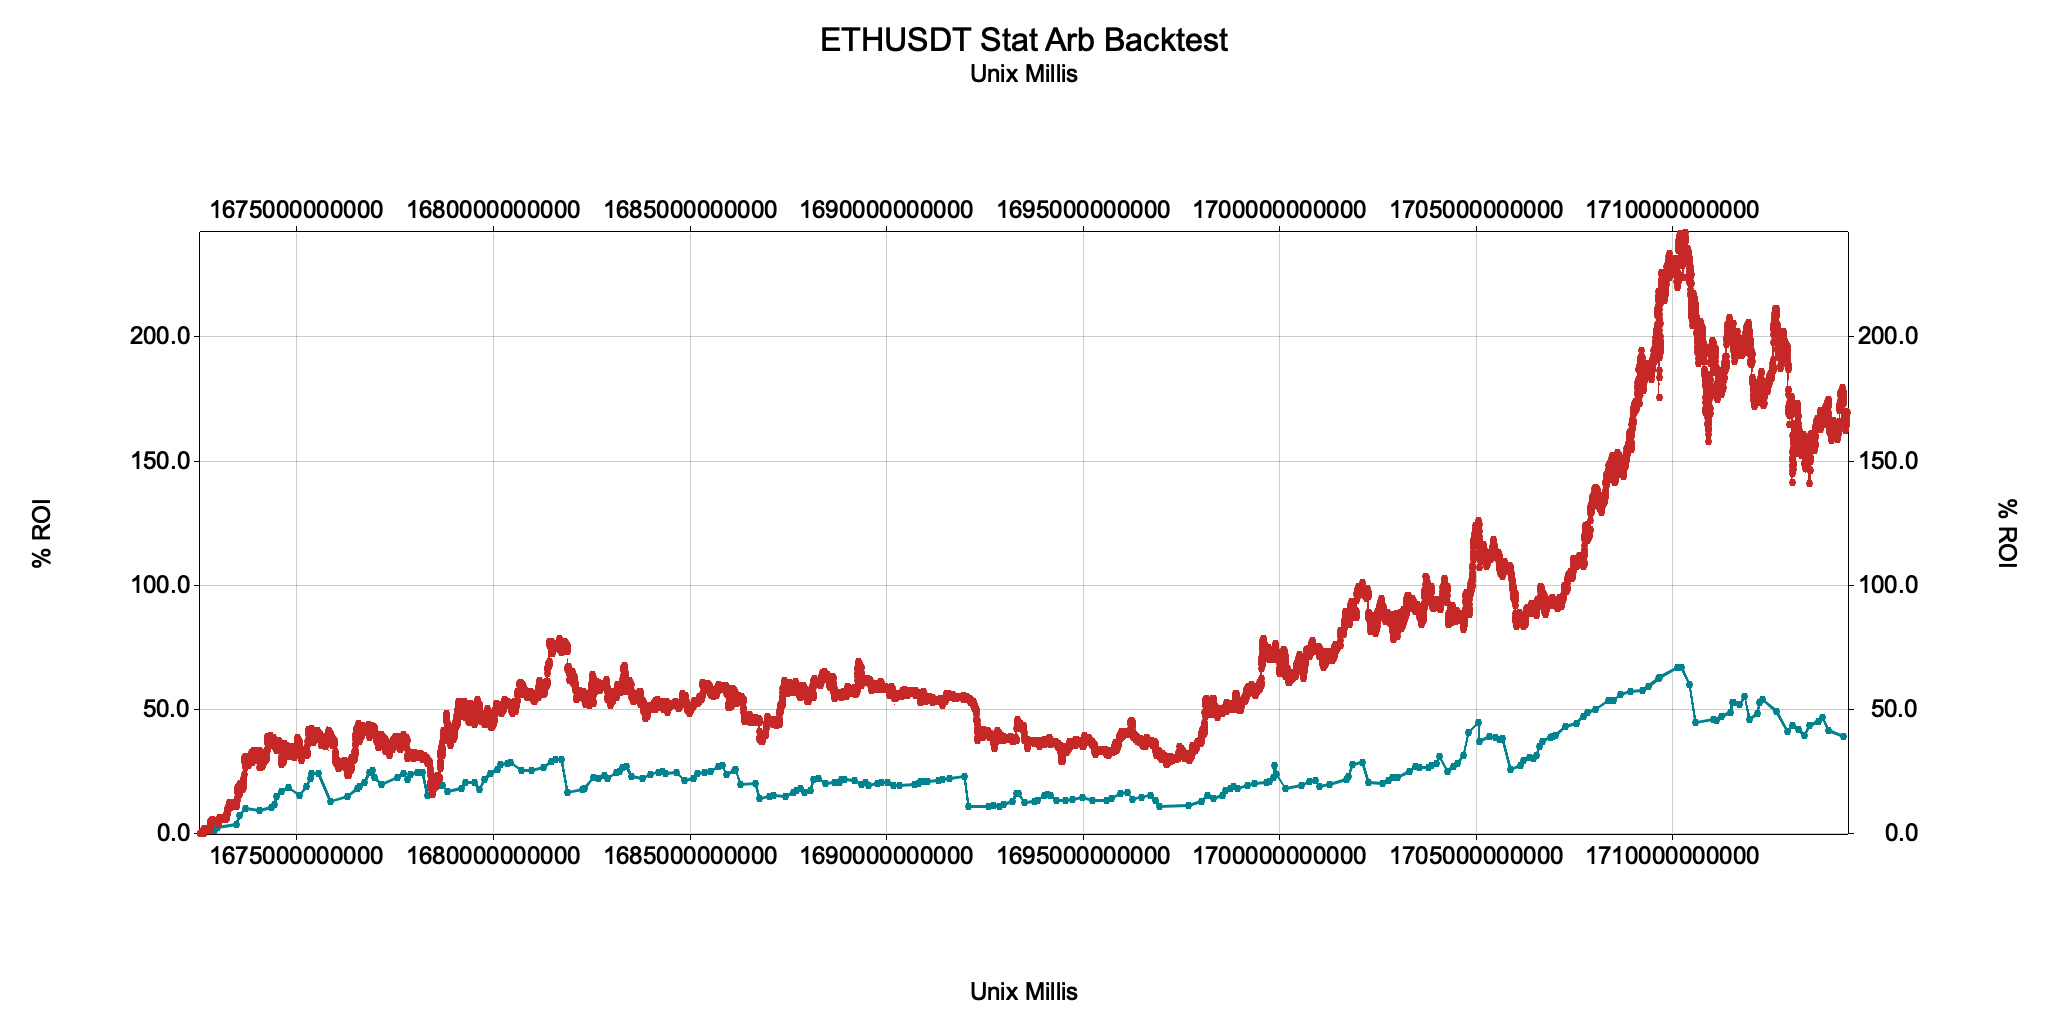
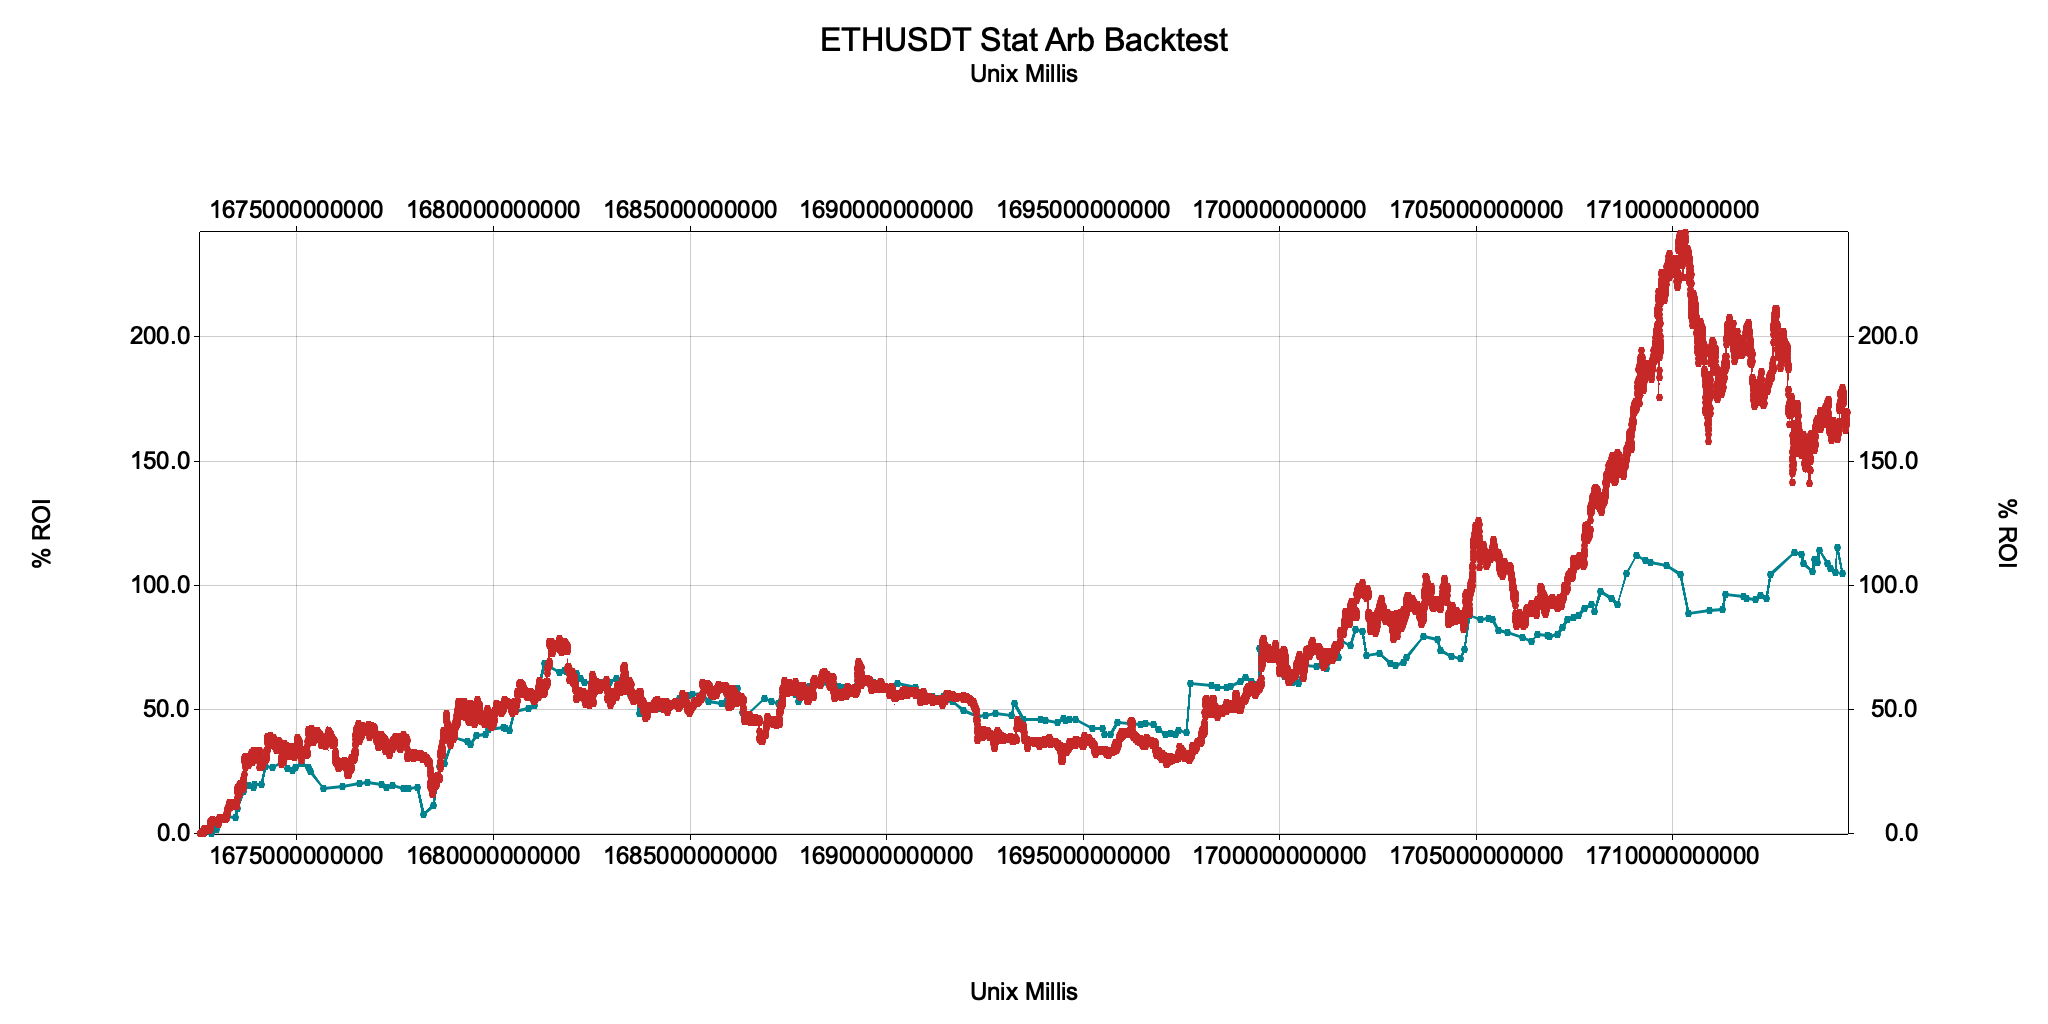
stat arb looking better

diff --git a/playbook/src/strategies/stat_arb.rs b/playbook/src/strategies/stat_arb.rs
@@ -75,18 +75,23 @@ impl StatArb {
         }
 
         // compare spread
-        // let x = Dataframe::normalize_series::<Data<i64, f64>>(&self.x.vec())?;
-        // let y = Dataframe::normalize_series::<Data<i64, f64>>(&self.y.vec())?;
-        let x = Dataset::new(self.x.vec());
-        let y = Dataset::new(self.y.vec());
+        let x = Dataframe::normalize_series::<Data<i64, f64>>(&self.x.vec())?;
+        let y = Dataframe::normalize_series::<Data<i64, f64>>(&self.y.vec())?;
+        assert_eq!(x.len(), self.x.len());
+        assert_eq!(y.len(), self.y.len());
 
-        let spread: Vec<f64> = spread_dynamic(&x.y(), &y.y()).map_err(
+        let spread: Vec<f64> = spread_standard(&x.y(), &y.y()).map_err(
           |e| anyhow::anyhow!("Error calculating spread: {}", e)
         )?;
         assert_eq!(spread.len(), y.len());
         assert_eq!(spread.len(), x.len());
-        let spread = spread[1..spread.len()].to_vec();
-        let lag_spread = spread[..spread.len() - 1].to_vec();
+        
+        let lag_spread = spread[..spread.len()-1].to_vec();
+        let spread = spread[1..].to_vec();
+        
+        assert_eq!(spread.len(), lag_spread.len());
+        assert_eq!(lag_spread.len(), self.window);
+        assert_eq!(spread.len(), self.window);
 
         let z_0 = Data {
           x: x_0.x(),
@@ -98,15 +103,13 @@ impl StatArb {
         };
 
         let enter_long = z_0.y() < -self.zscore_threshold;
-        let exit_long = z_0.y() > self.zscore_threshold;
         // let exit_long = z_0.y() > 0.0 && z_1.y() < 0.0;
-        // let enter_long = z_0.y() < -self.zscore_threshold;
-        // let exit_long = z_0.y() > self.zscore_threshold;
+        let exit_long = z_0.y() > self.zscore_threshold;
 
-        let enter_short = z_0.y() > self.zscore_threshold;
-        let exit_short = z_0.y() < 0.0 && z_1.y() > 0.0;
-        // let enter_short = exit_long;
-        // let exit_short = enter_long;
+        // let enter_short = z_0.y() > self.zscore_threshold;
+        // let exit_short = z_0.y() < 0.0 && z_1.y() > 0.0;
+        let enter_short = exit_long;
+        let exit_short = enter_long;
 
         let x_info = SignalInfo {
           price: x_0.y(),
@@ -201,14 +204,14 @@ async fn btc_eth_30m_stat_arb() -> anyhow::Result<()> {
   let start_time = Time::new(2023, &Month::from_num(1), &Day::from_num(1), None, None, None);
   let end_time = Time::new(2024, &Month::from_num(4), &Day::from_num(30), None, None, None);
  
-  let window = 20;
-  let capacity = window + 2;
+  let window = 9;
+  let capacity = window + 1;
   let threshold = 2.0;
-  let stop_loss = None; // Some(10.0);
+  let stop_loss = None;
   let fee = 0.02;
   let bet = Bet::Percent(100.0);
   let leverage = 1;
-  let short_selling = false;
+  let short_selling = true;
 
   let x_ticker = "BTCUSDT".to_string();
   let y_ticker = "ETHUSDT".to_string();

diff --git a/time_series/src/data_cache.rs b/time_series/src/data_cache.rs
@@ -31,4 +31,12 @@ impl<T: Clone> DataCache<T> {
   pub fn vec(&self) -> Vec<T> {
     self.vec.iter().rev().cloned().collect::<Vec<T>>()
   }
+  
+  pub fn len(&self) -> usize {
+    self.vec.len()
+  }
+  
+  pub fn is_empty(&self) -> bool {
+    self.vec.is_empty()
+  }
 }
